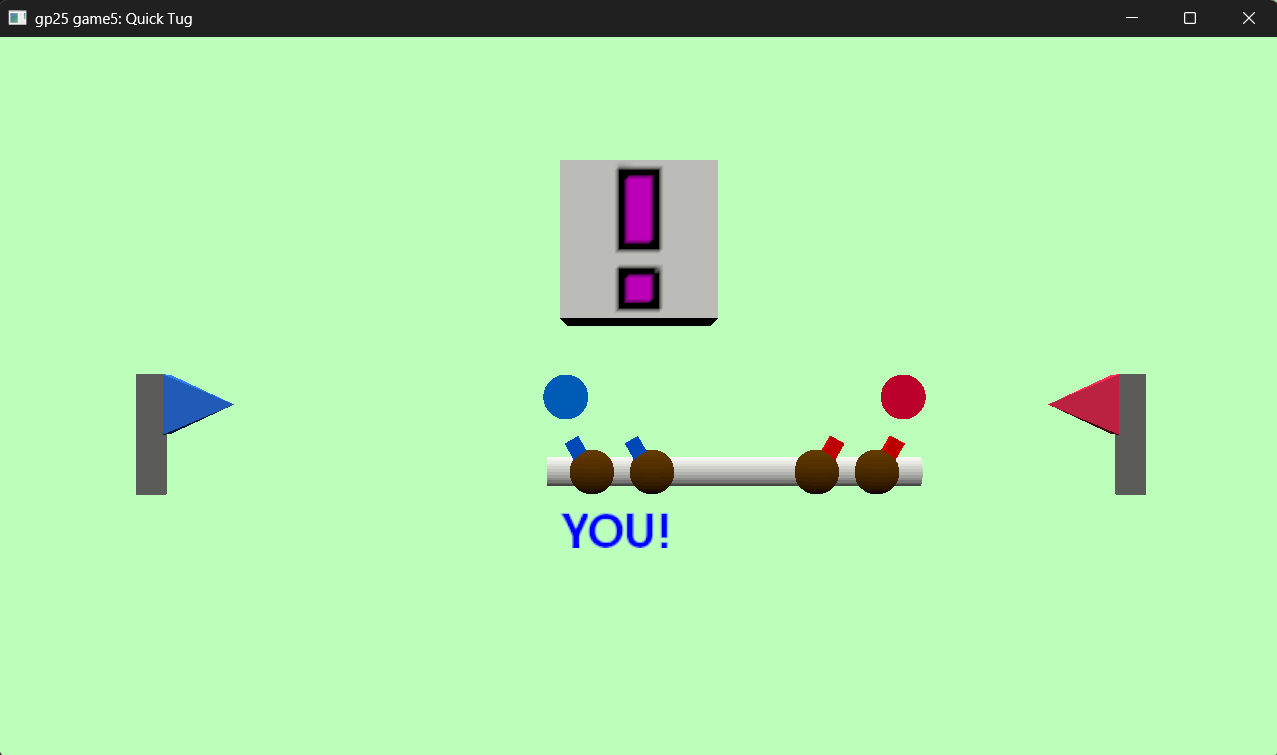
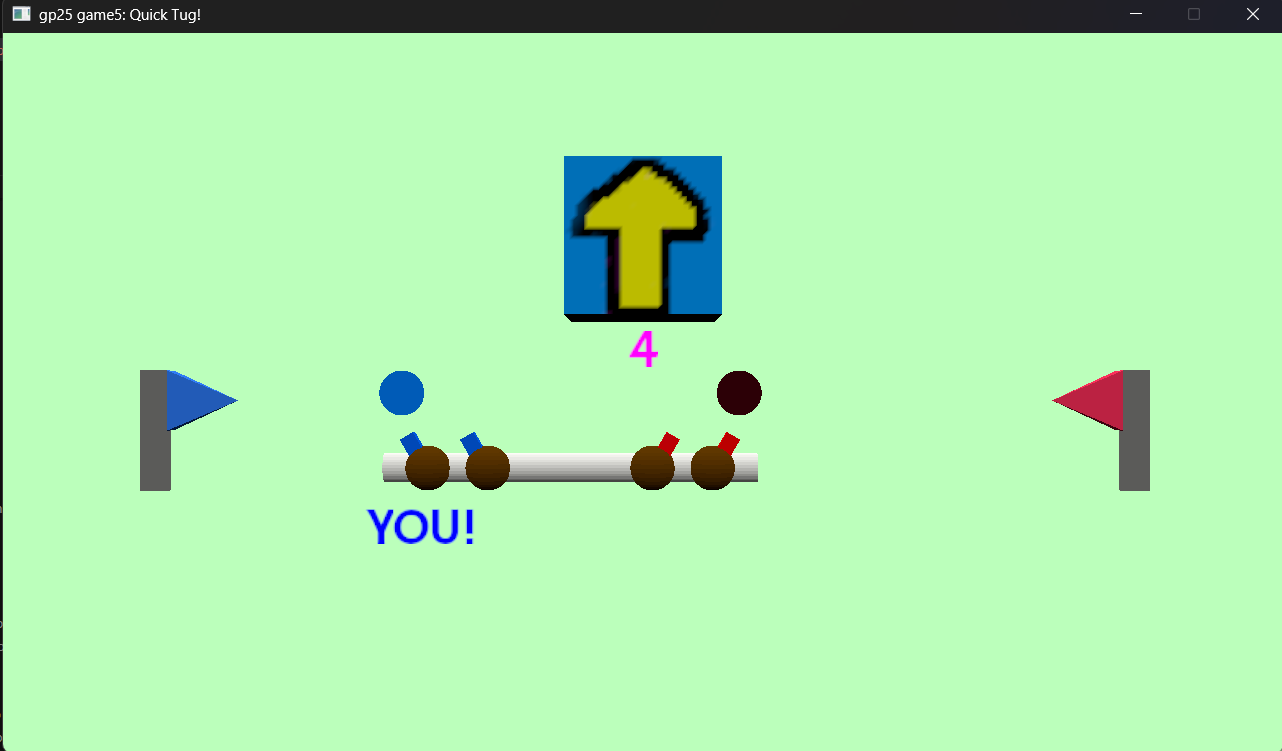
Implemented Tug Clock

diff --git a/Game.cpp b/Game.cpp
@@ -228,15 +228,22 @@ void Game::update(float elapsed) {
 					}
 					break;
 				case GameState::ADVANTAGE:
-					if (nextState != GameState::NEUTRAL) { // if next state is neutral, the advantaged player ended their tug
+					if (nextState != GameState::NEUTRAL && nextState != GameState::TC_VIOLATION) {
+						 // if next state is neutral or tc_violation, the advantaged player ended their tug
 						if (p.advantage) { // if I have advantage:
-							// if I tap the button again, set nextState to NEUTRAL, and setup the triggerDelay
+							// if I tap the button again, set nextState to NEUTRAL, and setup tug clock
 							if (p.inputs.size() == 1) {
 								if ((triggerDirection == TriggerDirection::LEFT && p.inputs[0] == &(p.controls.left)) ||
 									(triggerDirection == TriggerDirection::RIGHT && p.inputs[0] == &(p.controls.right)) ||
 									(triggerDirection == TriggerDirection::UP && p.inputs[0] == &(p.controls.up)) ||
-									(triggerDirection == TriggerDirection::DOWN && p.inputs[0] == &(p.controls.down)))	
-										nextState = GameState::NEUTRAL;
+									(triggerDirection == TriggerDirection::DOWN && p.inputs[0] == &(p.controls.down))) {
+										if (tugClockTimer <= 0 && tugClockBoundaryProgress < TUG_CLOCK_BOUNDARY) {
+											nextState = GameState::TC_VIOLATION;
+										}
+										else {
+											nextState = GameState::NEUTRAL;
+										}
+									}
 							}
 						}
 						else { assert(!(p.advantage)); // if I'm the counterer
@@ -245,8 +252,12 @@ void Game::update(float elapsed) {
 								if ((triggerDirection == TriggerDirection::LEFT && p.inputs[0] == &(p.controls.right)) ||
 									(triggerDirection == TriggerDirection::RIGHT && p.inputs[0] == &(p.controls.left)) ||
 									(triggerDirection == TriggerDirection::UP && p.inputs[0] == &(p.controls.down)) ||
-									(triggerDirection == TriggerDirection::DOWN && p.inputs[0] == &(p.controls.up)))	
+									(triggerDirection == TriggerDirection::DOWN && p.inputs[0] == &(p.controls.up))) {	
 										nextState = GameState::COUNTER;
+										tugClockTimer = TUG_CLOCK_DURATION;
+										tugClockBoundaryProgress = 0.0f;
+										lastAdvantageDirection = 0;
+									}
 								// If you press a non-counter direction that's not the trigger
 								else if ((triggerDirection == TriggerDirection::LEFT && p.inputs[0] != &(p.controls.left)) ||
 										(triggerDirection == TriggerDirection::RIGHT && p.inputs[0] != &(p.controls.right)) ||
@@ -260,15 +271,15 @@ void Game::update(float elapsed) {
 
 						if (nextState != GameState::ADVANTAGE) {
 							triggerDelay = (std::uniform_real_distribution<float>(TRIGGER_MIN_TIME, TRIGGER_MAX_TIME))(rd);
-						}						
-						// 	otherwise, stay in advantage
+						}			
 					}
+					// 	otherwise, stay in advantage
 					break;
 				case GameState::END:
 					// restarting
 					if (p.controls.start.downs > 0) nextState = GameState::STANDBY;
 					break;
-				default: // COUNTER, STANDBY
+				default: // COUNTER, STANDBY, TC_VIOLATION
 					// your inputs don't matter lol
 					break;
 			}
@@ -302,6 +313,7 @@ void Game::update(float elapsed) {
 					}
 				}
 				counterBonus = 0.0f;
+				tugClockBoundaryProgress = 0.0f;
 
 				std::uniform_real_distribution<float> tri_dis(std::max(TRIGGER_MIN_TIME, shortestFalseStart), TRIGGER_MAX_TIME);
 				triggerDelay = (std::uniform_real_distribution<float>(TRIGGER_MIN_TIME, TRIGGER_MAX_TIME))(rd);
@@ -342,6 +354,16 @@ void Game::update(float elapsed) {
 				for (auto &p : players) {
 					if (p.activePlayer && p.advantage && p.penalty <= 0) {
 						tugDirection = p.advantageDirection;
+						if (p.advantageDirection == lastAdvantageDirection || lastAdvantageDirection == 0) {
+							tugClockTimer--;
+						}
+						else { assert(lastAdvantageDirection != 0); // someone had advantage prior to this
+							// switch in advantage!
+							tugClockTimer = TUG_CLOCK_DURATION - 1;
+							tugClockBoundaryProgress = 0.0f;
+						}
+						lastAdvantageDirection = p.advantageDirection;
+
 					}
 					p.penalty /= 4.0f;
 				}
@@ -367,6 +389,12 @@ void Game::update(float elapsed) {
 			else {
 				progress += tugDirection * TUG_SPEED * elapsed;
 				counterBonus -= tugDirection * TUG_SPEED * COUNTER_BONUS_RATE * elapsed;
+				tugClockBoundaryProgress += TUG_SPEED * elapsed;
+
+				if (tugClockBoundaryProgress > TUG_CLOCK_BOUNDARY) { // hooray! No tug clock violation
+					tugClockTimer = TUG_CLOCK_DURATION;
+					tugClockBoundaryProgress -= TUG_CLOCK_BOUNDARY;
+				}
 
 				assert((tugDirection < 0 && counterBonus > 0) || (tugDirection > 0 && counterBonus < 0));
 			}
@@ -400,6 +428,38 @@ void Game::update(float elapsed) {
 				else { assert(tugDirection > 0);
 					assert(lastPosition + counterBonus < progress);
 					progress = std::clamp(progress - (tugDirection * TUG_SPEED * (1.0f + COUNTER_BONUS_RATE) * elapsed), lastPosition + counterBonus, progress);
+				}
+			}
+			break;
+		case GameState::TC_VIOLATION:
+			assert(tugDirection != 0);
+			if (progress - HAND_OFFSET_X - EXTRA_HAND_OFFSET_X < ArenaMin.x || progress + HAND_OFFSET_X + EXTRA_HAND_OFFSET_X > ArenaMax.x) {
+				// VICTORY!
+				matchState = GameState::END;
+			}
+			else if (progress == lastPosition - (TUG_CLOCK_PENALTY * tugDirection)) {
+				matchState = GameState::NEUTRAL;
+				// printf("TC_VIOLATION->NEUTRAL (%i, %i)\n", dirs[0], dirs[1]);
+				tugDirection = 0;
+				counterBonus = 0.0f;
+
+				tugClockTimer = TUG_CLOCK_DURATION;
+				tugClockBoundaryProgress = 0.0f;
+				lastAdvantageDirection = 0;
+
+				// advantage state
+				for (auto &p : players) {
+					if (p.activePlayer) {
+						p.advantage = false;
+					}
+				}
+			}
+			else {
+				if (tugDirection < 0) {
+					progress = std::clamp(progress - (tugDirection * TUG_SPEED * (1.0f + COUNTER_BONUS_RATE) * elapsed), progress, lastPosition + TUG_CLOCK_PENALTY);
+				}
+				else { assert(tugDirection > 0);
+					progress = std::clamp(progress - (tugDirection * TUG_SPEED * (1.0f + COUNTER_BONUS_RATE) * elapsed), lastPosition - TUG_CLOCK_PENALTY, progress);
 				}
 			}
 			break;
@@ -470,6 +530,7 @@ void Game::send_state_message(Connection *connection_, Player *connection_player
 	connection.send(progress);
 	connection.send(triggerDirection);
 	connection.send(matchState);
+	connection.send(tugClockTimer);
 
 	//compute the message size and patch into the message header:
 	uint32_t size = uint32_t(connection.send_buffer.size() - mark);
@@ -539,6 +600,7 @@ bool Game::recv_state_message(Connection *connection_) {
 	read(&progress);
 	read((&triggerDirection));
 	read((&matchState));
+	read((&tugClockTimer));
 
 	if (at != size) throw std::runtime_error("Trailing data in state message.");
 

diff --git a/PlayMode.cpp b/PlayMode.cpp
@@ -50,7 +50,11 @@ Load< Scene > quicktug_scene(LoadTagDefault, []() -> Scene const * {
  * Scene copying code based on
  * starter code from Game 2 onwards 
  ***********************************/
-PlayMode::PlayMode(Client &client_) : identifier_text("YOU!"), victory_text("WINS!"), play_again_text("Press ENTER or SPACE to play again!"), scene(*quicktug_scene), client(client_) { //, scene(*quicktug_scene) {
+PlayMode::PlayMode(Client &client_) : identifier_text("YOU!"),
+									  victory_text("WINS!"),
+									  play_again_text("Press ENTER or SPACE to play again!"),
+									  tug_clock_text("0"),
+									  scene(*quicktug_scene), client(client_) {
 	/* DEBUG */
 	for (auto &transform : scene.transforms) {
 		if (transform.name == "Rope") rope = &transform;
@@ -98,6 +102,8 @@ PlayMode::PlayMode(Client &client_) : identifier_text("YOU!"), victory_text("WIN
 
 	play_again_text.create_data_vector();
 	play_again_text.create_mesh(Mode::window, 0.0f, 0.0f, 0.1f, 0x00, 0x00, 0x00, 0xff);
+
+	lastTugClockTime = 0;
 }
 
 PlayMode::~PlayMode() {
@@ -299,6 +305,13 @@ void PlayMode::update(float elapsed) {
 				p2_light_on->position = glm::vec3(game.progress + LIGHT_OFFSET_X, 0.0f, LIGHT_OFFSET_Y);
 				p2_light_off->position = glm::vec3(0.0f, 0.0f, game.ArenaMax.y * 2);
 				break;
+			case Game::GameState::TC_VIOLATION:
+				counter_box->position = glm::vec3(0.0f, 0.0f, BOX_HEIGHT);
+				p1_light_off->position = glm::vec3(game.progress - LIGHT_OFFSET_X, 0.0f, LIGHT_OFFSET_Y);
+				p1_light_on->position = glm::vec3(0.0f, 0.0f, game.ArenaMax.y * 2);
+				p2_light_off->position = glm::vec3(game.progress + LIGHT_OFFSET_X, 0.0f, LIGHT_OFFSET_Y);
+				p2_light_on->position = glm::vec3(0.0f, 0.0f, game.ArenaMax.y * 2);
+				break;
 			case Game::GameState::END:
 				// TODO: Victory message, hide lights
 				empty_box->position = glm::vec3(0.0f, 0.0f, BOX_HEIGHT);
@@ -308,6 +321,8 @@ void PlayMode::update(float elapsed) {
 				p2_light_off->position = glm::vec3(0.0f, 0.0f, game.ArenaMax.y * 2);
 				break;
 		}
+
+		if (game.matchState != Game::GameState::TC_VIOLATION) tcViolationOccurring = false;
 	}
 }
 
@@ -359,19 +374,19 @@ void PlayMode::draw(glm::uvec2 const &drawable_size) {
 	);
 	
 	{
-		DrawLines lines(world_to_clip);
+		// DrawLines lines(world_to_clip);
 
-		auto draw_text = [&](glm::vec2 const &at, std::string const &text, float H) {
-			lines.draw_text(text,
-				glm::vec3(at.x, at.y, 0.0),
-				glm::vec3(H, 0.0f, 0.0f), glm::vec3(0.0f, H, 0.0f),
-				glm::u8vec4(0x00, 0x00, 0x00, 0x00));
-			float ofs = (1.0f / scale) / drawable_size.y;
-			lines.draw_text(text,
-				glm::vec3(at.x + ofs, at.y + ofs, 0.0),
-				glm::vec3(H, 0.0f, 0.0f), glm::vec3(0.0f, H, 0.0f),
-				glm::u8vec4(0x00, 0x00, 0x00, 0x00));
-		};
+		// auto draw_text = [&](glm::vec2 const &at, std::string const &text, float H) {
+		// 	lines.draw_text(text,
+		// 		glm::vec3(at.x, at.y, 0.0),
+		// 		glm::vec3(H, 0.0f, 0.0f), glm::vec3(0.0f, H, 0.0f),
+		// 		glm::u8vec4(0x00, 0x00, 0x00, 0x00));
+		// 	float ofs = (1.0f / scale) / drawable_size.y;
+		// 	lines.draw_text(text,
+		// 		glm::vec3(at.x + ofs, at.y + ofs, 0.0),
+		// 		glm::vec3(H, 0.0f, 0.0f), glm::vec3(0.0f, H, 0.0f),
+		// 		glm::u8vec4(0x00, 0x00, 0x00, 0x00));
+		// };
 
 		for (auto const &player : game.players) {
 			if (player.activePlayer) {
@@ -396,8 +411,6 @@ void PlayMode::draw(glm::uvec2 const &drawable_size) {
 		}
 
 		if (game.matchState == Game::GameState::END) {
-			// if (!victory_text.data_created) victory_text.create_data_vector();
-
 			auto determine_leading_player = [&]() {
 				if (game.progress < 0) {
 					for (auto &p : game.players) {
@@ -439,6 +452,30 @@ void PlayMode::draw(glm::uvec2 const &drawable_size) {
 			play_again_text.set_position(Mode::window, 0.0f, 0.1f, 0.1f, 0x00, 0x00, 0x00, 0xff);
 			victory_text.draw_text_mesh();
 			play_again_text.draw_text_mesh();
+		}
+		else if (game.matchState != Game::GameState::STANDBY) {
+			glm::vec3 tug_clock_clip = glm::vec3(world_to_clip * glm::vec4(0.0f, BOX_HEIGHT - 1.5f, 0.0f, 1.0f));
+			
+			if (game.matchState == Game::GameState::TC_VIOLATION && !tcViolationOccurring) {
+				tug_clock_text.set_text("Tug Clock Violation!");
+				tug_clock_text.create_data_vector();
+				tug_clock_text.create_mesh(Mode::window, 0.0f, tug_clock_clip.y, 0.1f, 0xff, 0x00, 0xff, 0xff);
+				tcViolationOccurring = true;
+				lastTugClockTime = -1;
+			}
+			else {
+				if (!tcViolationOccurring && lastTugClockTime != game.tugClockTimer) {
+					std::string timerToString = std::to_string(game.tugClockTimer);
+					char timerCharArr[1024];
+					strcpy_s(timerCharArr, timerToString.length() + 1, timerToString.c_str());
+
+					tug_clock_text.set_text(timerCharArr);
+					tug_clock_text.create_data_vector();
+					tug_clock_text.create_mesh(Mode::window, 0.0f, tug_clock_clip.y, 0.1f, 0xff, 0x00, 0xff, 0xff);
+					lastTugClockTime = game.tugClockTimer;
+				}
+			}
+			tug_clock_text.draw_text_mesh();
 		}
 
 		// DEBUG:

diff --git a/Game.hpp b/Game.hpp
@@ -77,6 +77,7 @@ struct Game {
 	inline static constexpr float Tick = 1.0f / 30.0f;
 
 	//arena size:
+	// Clip was used for debug purposes
 	inline static constexpr glm::vec2 ArenaMin_Clip = glm::vec2(-1.5f, -1.0f);
 	inline static constexpr glm::vec2 ArenaMax_Clip = glm::vec2( 1.5f,  1.0f);
 	inline static constexpr glm::vec2 ArenaMin = glm::vec2(-6.3f,-4.0f);
@@ -89,33 +90,44 @@ struct Game {
 	
 	//game state
 	enum GameState {
-		STANDBY = 0b000001, // less than two players connected
-		NEUTRAL = 0b000010, // two players, waiting for a cue
-		TRIGGER = 0b000100, // prompt is here!
-		ADVANTAGE = 0b001000, // someone started pulling
-		COUNTER = 0b010000, // ...but the other player countered! start pulling back
-		END = 0b100000
+		STANDBY = 0b0000001, // less than two players connected
+		NEUTRAL = 0b0000010, // two players, waiting for a cue
+		TRIGGER = 0b0000100, // prompt is here!
+		ADVANTAGE = 0b0001000, // someone started pulling
+		COUNTER = 0b0010000, // ...but the other player countered! start pulling back
+		TC_VIOLATION = 0b0100000, // Tug Clock Violation! Roll back the rope...
+		END = 0b1000000
 	} matchState = STANDBY;
 
 	//progress variables and visuals
 	float progress = 0.0f; // need to reach one of the arena bounds
 	const float HAND_OFFSET_X = 1.5f; // from rope center
-	const float EXTRA_HAND_OFFSET_X = 1.0f; // from rope center
+	const float EXTRA_HAND_OFFSET_X = 1.0f; // from hand center
 	float lastPosition = 0.0f; // during COUNTER, revert back to this
-	const float COUNTER_BONUS_RATE = 0.2f; // plus 50% of progress made
-	float counterBonus = 0.0f; // plus 50% of progress made
-	const float TUG_SPEED = 1.0f; // units per second
+	const float COUNTER_BONUS_RATE = 0.2f; // plus 20% of progress made
+	float counterBonus = 0.0f; // plus 20% of progress made
+	const float TUG_SPEED = 1.25f; // units per second
 	int tugDirection = 0;
+
+	// Tug Clock (anti-stall) data
+	// If the player fails to make enough progress within enough rounds Tug Clock runs out,
+	// they'll be penalized. Switches in advantage or counters reset the tug clock.
+	const int TUG_CLOCK_DURATION = 4;
+	const float TUG_CLOCK_BOUNDARY = ArenaMax.x * 0.20f;
+	const float TUG_CLOCK_PENALTY = ArenaMax.x * 0.25f;
+	int tugClockTimer = TUG_CLOCK_DURATION;
+	float tugClockBoundaryProgress = 0.0f;
+	int lastAdvantageDirection = 0;
 
 	// randomizer needs (from cpp documentation)
 	std::random_device rd;
 
 	//QTE triggers:
 	const float TRIGGER_MIN_TIME = 3.0f;
-	// const float TRIGGER_MAX_TIME = 10.0f;
+	const float TRIGGER_MAX_TIME = 8.0f;
 	// DEBUG:
-	const float TRIGGER_MAX_TIME = 4.0f;
-	float triggerDelay = 10.0f; // how to use:
+	// const float TRIGGER_MAX_TIME = 4.0f;
+	float triggerDelay = 8.0f; // how to use:
 								// std::random_device rd;
 								// std::mt19937 gen(rd());
 								// (std::uniform_real_distribution<float>(TRIGGER_MIN_TIME, TRIGGER_MAX_TIME))(gen);

diff --git a/client.cpp b/client.cpp
@@ -65,10 +65,10 @@ int main(int argc, char **argv) {
 
 	//create window:
 	Mode::window = SDL_CreateWindow(
-		"gp25 game5: Quick Tug", //remember to set a title for your game!
+		"gp25 game5: Quick Tug!", //remember to set a title for your game!
 		1280, 720, //TODO: modify window size if you'd like
 		SDL_WINDOW_OPENGL
-		| SDL_WINDOW_RESIZABLE //uncomment to allow resizing
+		// | SDL_WINDOW_RESIZABLE //uncomment to allow resizing
 		| SDL_WINDOW_HIGH_PIXEL_DENSITY //uncomment for full resolution on high-DPI screens
 	);
 

diff --git a/TextMeshNovice.hpp b/TextMeshNovice.hpp
@@ -90,9 +90,6 @@ struct TextMeshNovice { // single line text
             printf("Failed to make new face for text %s from file %s... (%i)\n", mytext, fontfile, ft_error);
             abort();
         }
-        else {
-            printf("Got file %s... sometimes...\n", fontfile);
-        }
 
         // face->size lets you get pixel size. This size object models all information needed w.r.t. character sizes
         // Use FT_Set_Char_Size, passing a handle to the face object you have.

diff --git a/PlayMode.hpp b/PlayMode.hpp
@@ -71,6 +71,9 @@ struct PlayMode : Mode {
 	TextMeshNovice identifier_text;
 	TextMeshNovice victory_text;
 	TextMeshNovice play_again_text;
+	TextMeshNovice tug_clock_text;
+	int lastTugClockTime = -1;
+	bool tcViolationOccurring = false;
 
 	// TODO: winner bouncing hand
 	// const float WINNER_BOUNCE_START_OFFSET_Y = 0.5f;

diff --git a/README.md b/README.md
@@ -1,4 +1,4 @@
-# Quick Tug
+# Quick Tug!
 
 Author: Kenechukwu Echezona
 
@@ -26,7 +26,7 @@ How To Play:
 - When the arrow appears, press in that direction before your opponent to start pulling on the rope.
 - If you win the QTE, you'll keep pulling the rope. Press the same direction to stop pulling.
 - If you lose the QTE, you can initiate a Counter by pressing in the opposite direction. Successfully Countering before your opponent stops pulling will undo all of their progress for that particular interaction, and grant you a bonus 20% of the progress they had made!
-- Be the first to pull the rope to your side!
+- Be the first to pull the rope to your flag!
 
 Strategy:
 - While having a better reaction time than your opponent is helpful, the true key to victory in Quick Tug Event lies in the mind games.
@@ -39,6 +39,9 @@ Strategy:
 
 Sources:
 - Font used: [Google Font Hammersmith One](https://fonts.google.com/specimen/Hammersmith+One?preview.text=Select%20a%20cone%20type!&query=nic)
+- Text rendering heavily borrowed from Jim McCann's XOR/Circle mesh rendering example, and the following tutorials:
+    - https://freetype.org/freetype2/docs/tutorial/step1.html
+    - https://github.com/harfbuzz/harfbuzz-tutorial/blob/master/hello-harfbuzz-freetype.c
 
 This game was built with [NEST](NEST.md).
 
